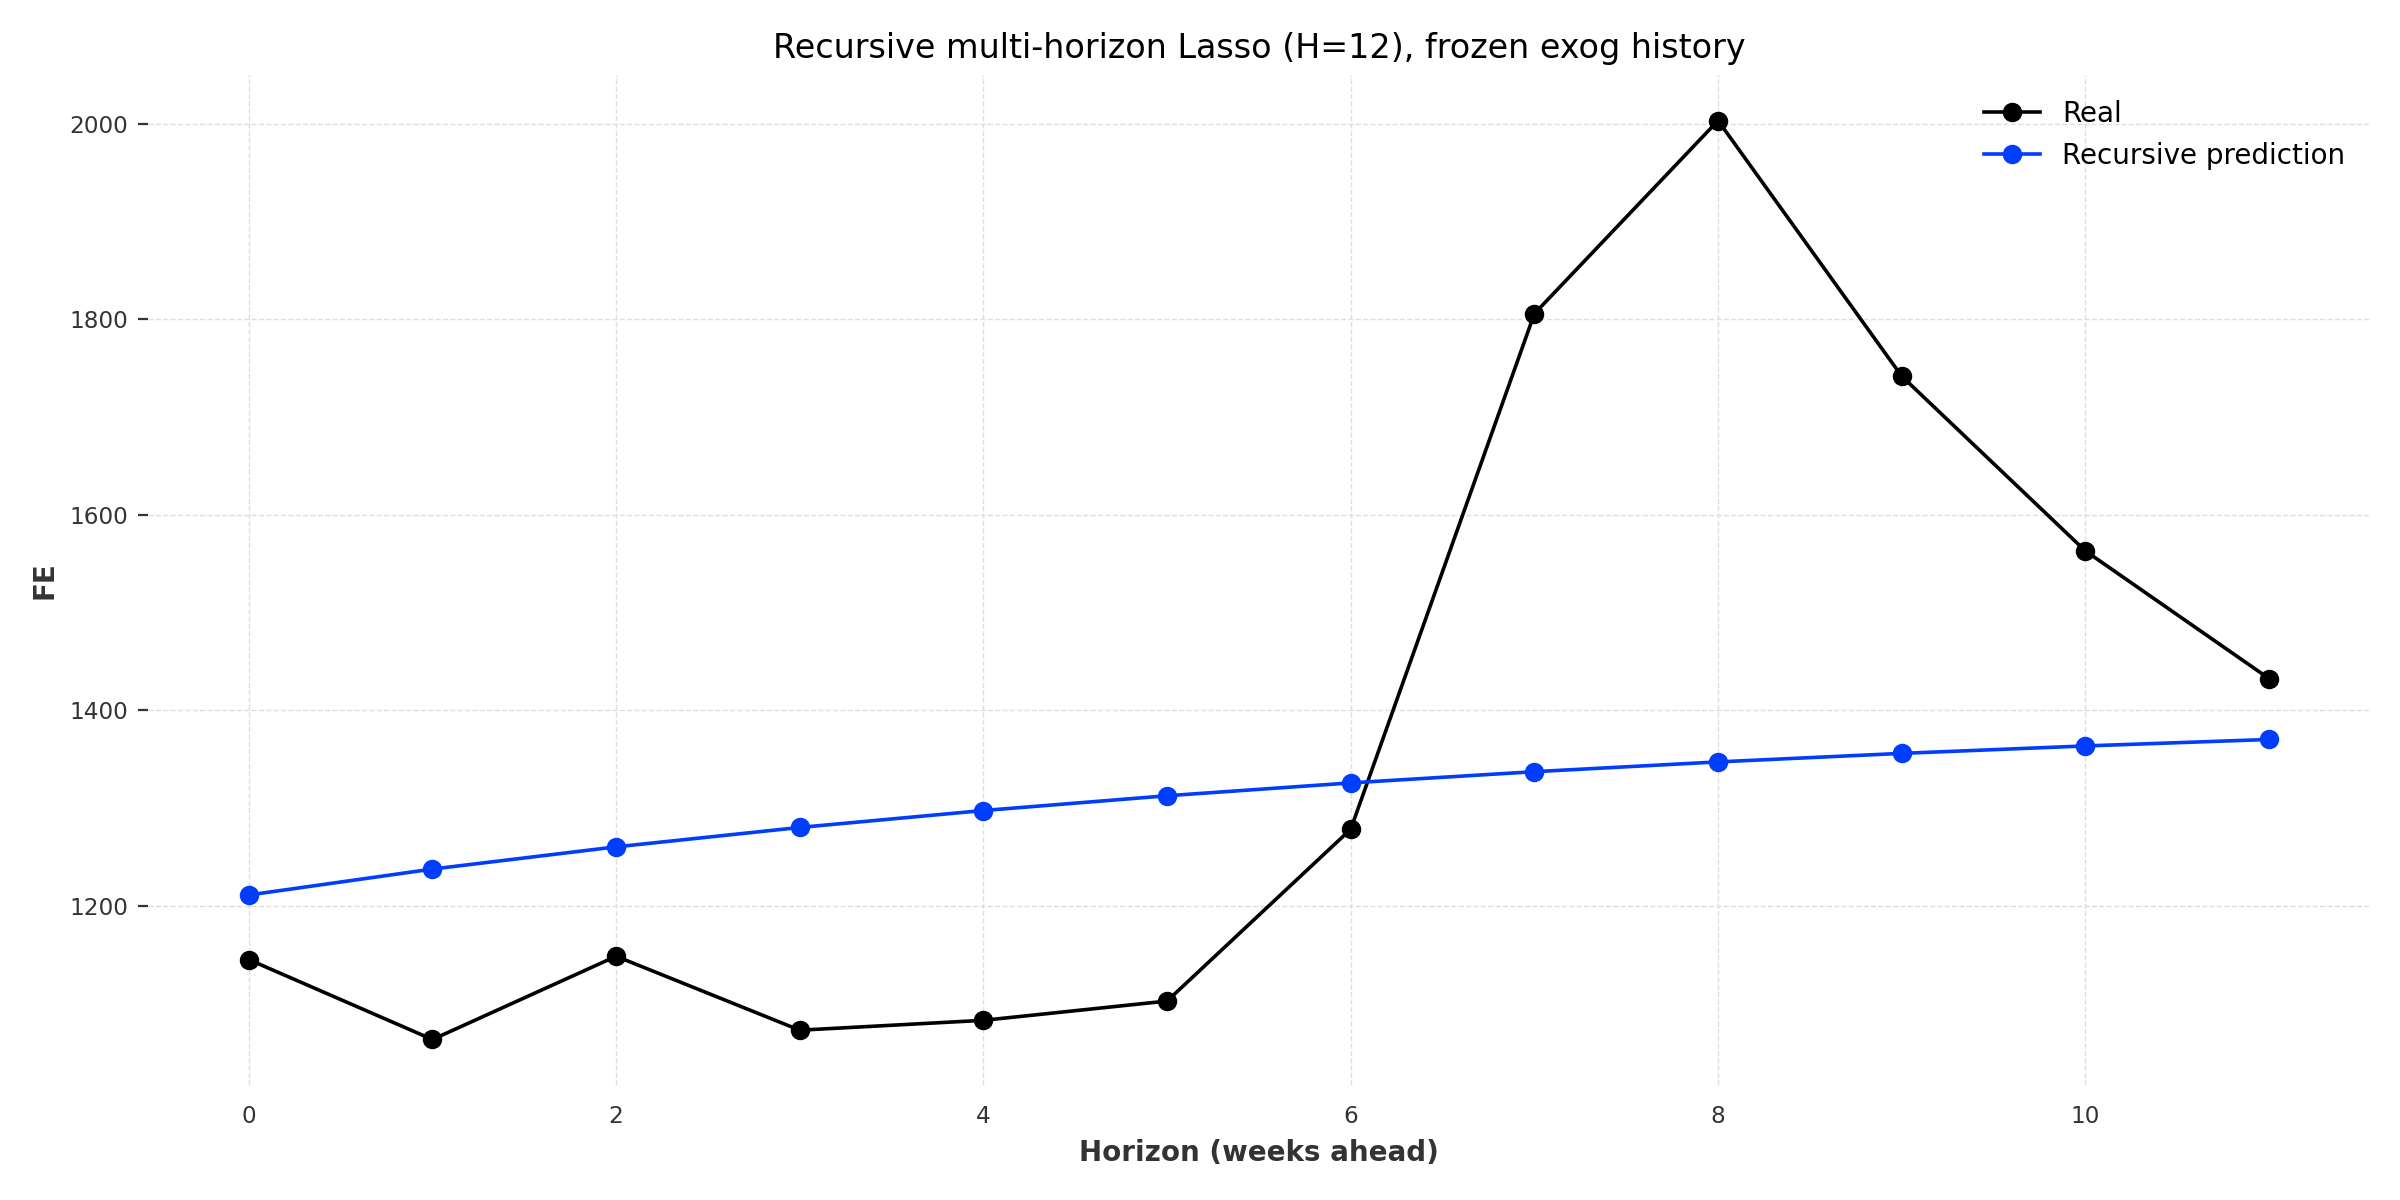
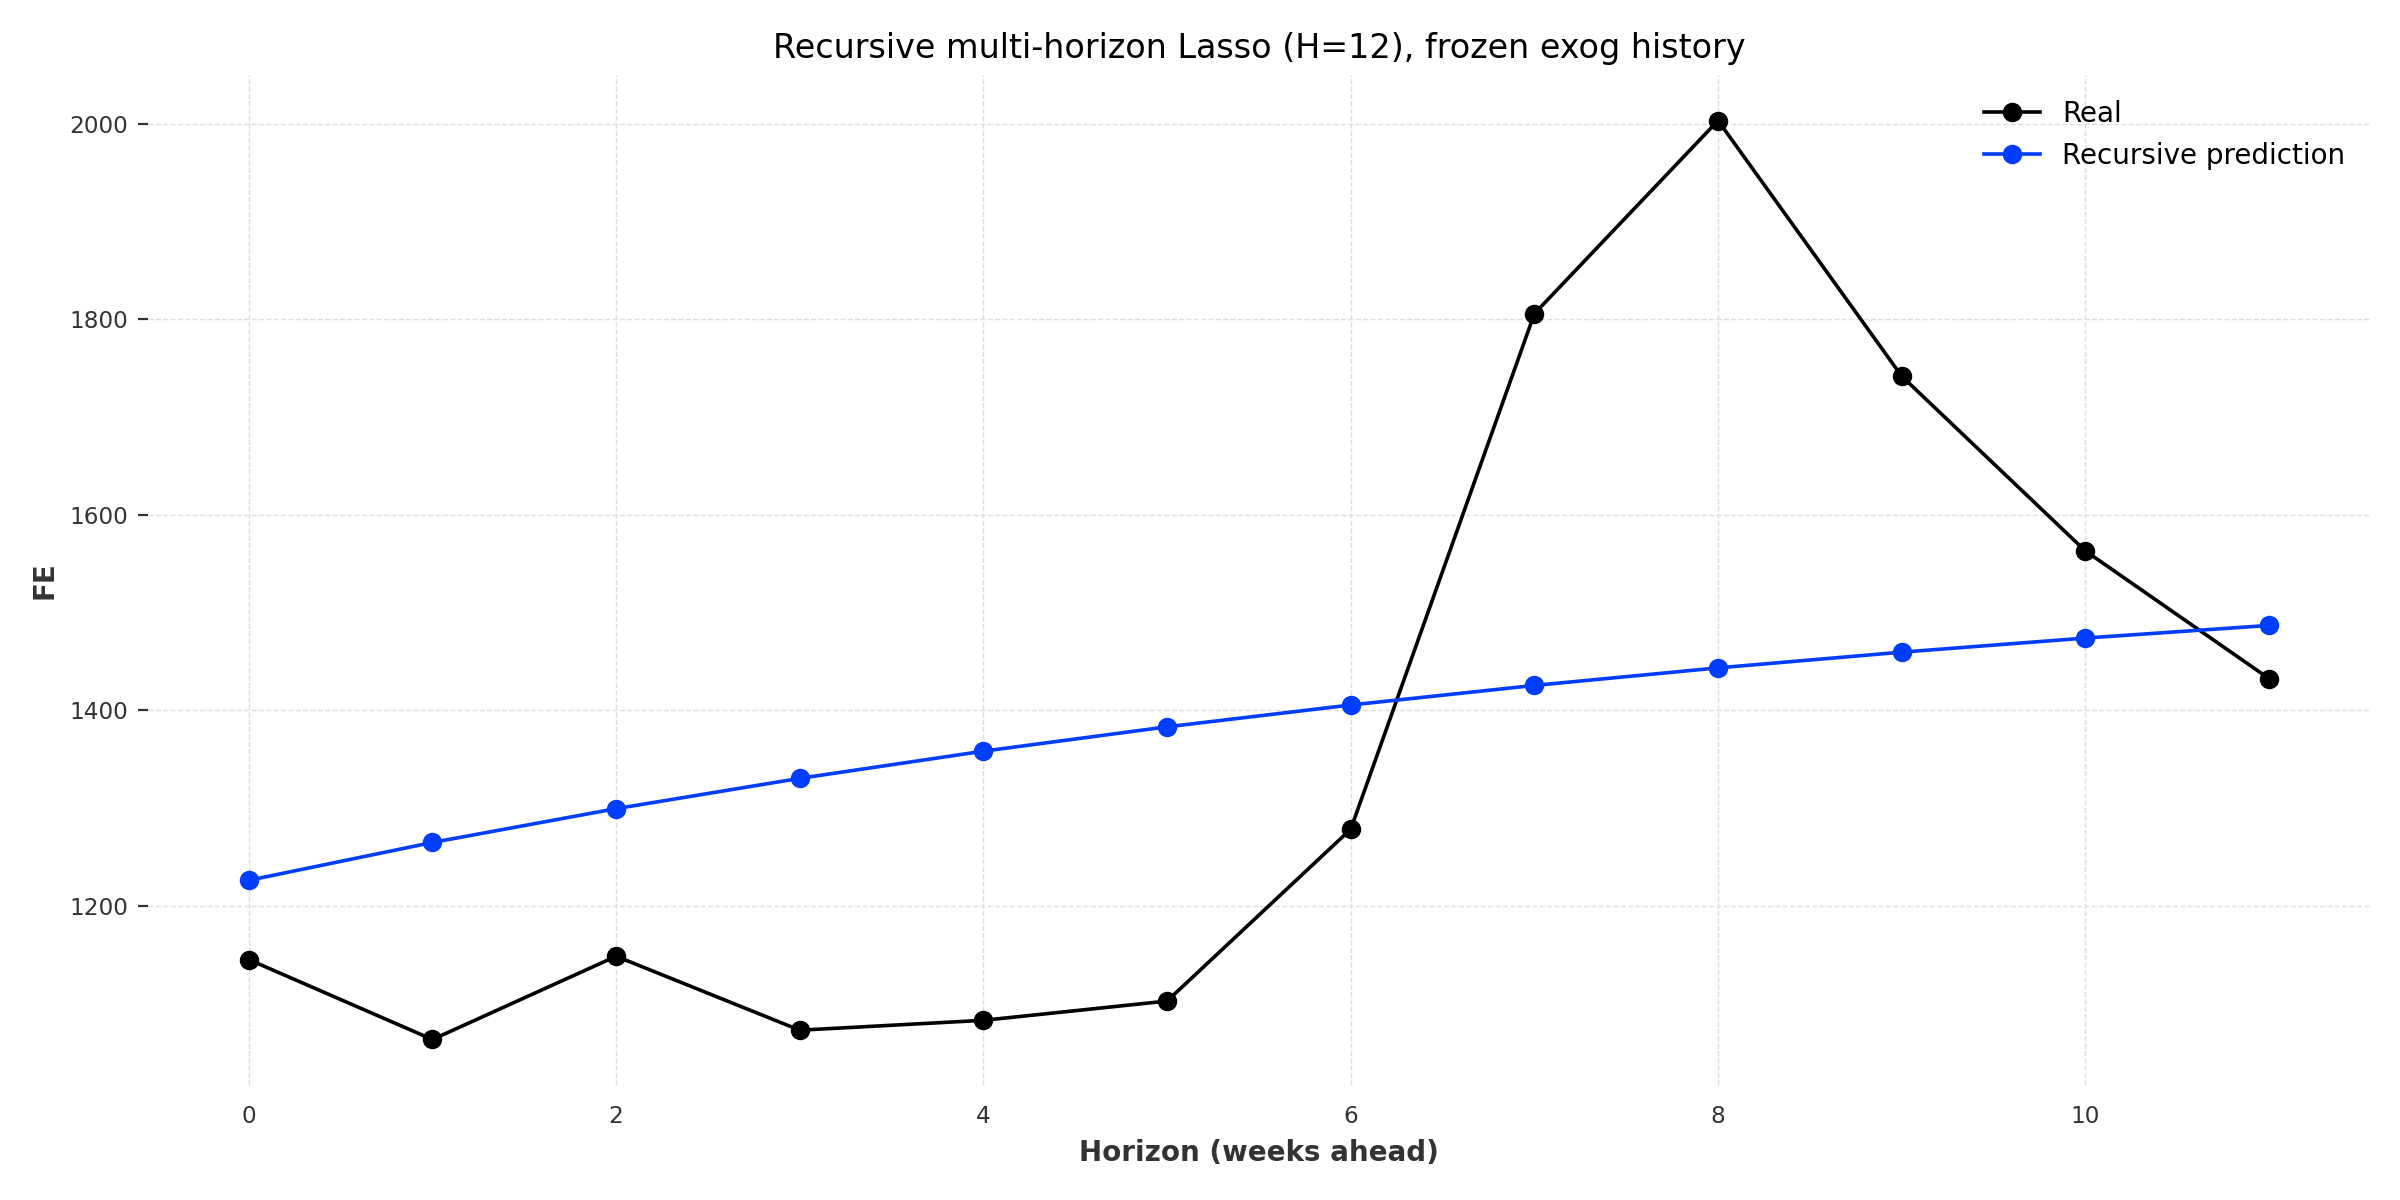
update

diff --git a/naive_plot.py b/naive_plot.py
@@ -18,18 +18,19 @@ df["FECHA"] = pd.to_datetime(df["FECHA"])
 df = df.sort_values("FECHA").reset_index(drop=True)
 
 
-target_col = "FE"
+target_col = "NAE"
 
-test_size = 24 # number of weeks to forecast
-window_size = 52
-hidden_size = 128
+test_size = 12 # number of weeks to forecast
+window_size = 27
+hidden_size = 64
 lstm_layers = 2
 num_attention_heads = 2
-dropout = 0.195661864
+dropout = 0.341350332
 batch_size = 32
-lr = 0.000920696018319848
+lr = 0.000429763952765133
 n_epochs = 2000
-grad_clip = 1
+grad_clip = 2.684042798
+
 
 
 patience = 100
@@ -100,9 +101,12 @@ print("Window mean:",   error_metrics(y_true, y_naive_window_mean))
 
 plt.figure(figsize=(12, 6))
 plt.plot(y_true, marker="o", label="Real")
-plt.plot(y_pred, marker="o", label="Prediction")
+plt.plot(y_pred, marker="o", label="TFT")
 plt.plot(y_naive_last, linestyle="--", label="Naive last")
 plt.plot(y_naive_mean, linestyle="--", label="Naive mean")
+plt.plot(preds_direct, "o-", color="red", label="Direct Lasso")
+
+plt.plot(preds_rec, "o-", color="pink", label="Recursive Lasso")
 plt.title("Prediction (original scale)")
 plt.xlabel("Weeks")
 plt.ylabel(target_col)
@@ -123,7 +127,9 @@ plt.plot(hist_x, history_window, "ko-", label=f"History (last {window_size} week
 # --- Ground truth (test) ---
 plt.plot(test_x, y_true, "o-", color="black", label="Ground truth (test)")
 
-plt.plot(test_x, y_pred_real_lasso, "o-", color="red", label="Lasso")
+plt.plot(test_x, preds_direct, "o-", color="red", label="Direct Lasso")
+
+plt.plot(test_x, preds_rec, "o-", color="blue", label="Recursive Lasso")
 
 # --- TFT prediction ---
 plt.plot(test_x, y_pred, "o--", color="magenta", label="TFT prediction")

diff --git a/lasso.py b/lasso.py
@@ -15,7 +15,7 @@ from functions import error_metrics
 # ============================================================
 target_col = "FE"
 H = 12               # forecast horizon (weeks)
-n_lags = 30          # number of lag weeks used as features
+n_lags = 27          # number of lag weeks used as features
 n_splits = 10        # CV splits for LassoCV
 
 # ============================================================
